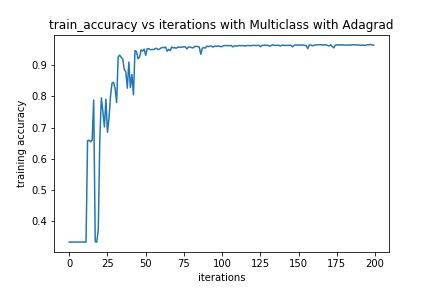
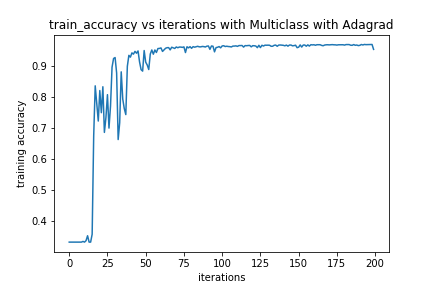
corrected

diff --git a/cleaned/helping_functions.py b/cleaned/helping_functions.py
@@ -104,6 +104,18 @@ def multiclass_result(w25,w27,w57,train_data_56):
     temp[(temp==-109)+(temp==-111)] = 7
     temp[(temp==109)+(temp==89)] = 5
     temp[(temp==-89)+(temp==111)] = 2
+    #handling other cases
+    temp2 = (temp!=2) * (temp!=5) * (temp!=7)
+    others = np.argwhere(temp2!=0)
+    if others.shape[0]!=0:
+      train_others = train_data_56[others].reshape(-1,785)
+      sum_others = np.hstack(((np.sum(w25*train_others,axis = 1)).reshape(-1,1),(np.sum(w27*train_others,axis = 1)).reshape(-1,1),(np.sum(w57*train_others,axis = 1)).reshape(-1,1)))
+      temp_others = np.zeros((train_others.shape[0]))
+      args = np.argmax(abs(sum_others),axis=1)
+      temp_others[args==0] = 2*(sum_others[:,0][args==0]>0) + 5*(sum_others[:,0][args==0]<0)
+      temp_others[args==1] = 2*(sum_others[:,1][args==1]>0) + 7*(sum_others[:,1][args==1]<0)
+      temp_others[args==2] = 5*(sum_others[:,2][args==2]>0) + 7*(sum_others[:,2][args==2]<0)
+      temp[(temp!=2) * (temp!=5) * (temp!=7)] = temp_others
     return temp
     
 
@@ -216,10 +228,39 @@ def prepare_testing_data(test_filtered_56_labels,test_filtered_56,test_labels):
     for i in range(test_filtered_56_labels.shape[0]):
       test_loader_ip.append((torch.Tensor(test_filtered_56[i].reshape(1,28,28)),int(test_labels[i])))
 
-    testloader = torch.utils.data.DataLoader(test_loader_ip,batch_size=64)
+    testloader = torch.utils.data.DataLoader(test_loader_ip,batch_size=len(test_filtered_56))
     return testloader
 
-def train_data_func(trainloader):
+
+
+def test_data_func(classes,net,testloader):  
+    
+    
+    class_correct = list(0. for i in range(len(classes)))
+    class_total = list(0. for i in range(len(classes)))
+    
+    with torch.no_grad():
+    
+        for data in testloader:
+            images, labels = data
+            outputs = net(images)
+            _, predicted = torch.max(outputs, 1)
+            c = (predicted == labels).squeeze()
+            for i in range(len(labels)):
+                label = labels[i]
+                class_correct[label] += c[i].item()
+                class_total[label] += 1
+
+
+#    for i in range(len(classes)):
+#        print('Accuracy of %5s : %2d %%' % (
+#            classes[i], 100 * class_correct[i] / class_total[i]))
+        
+        return sum(class_correct)/sum(class_total)
+
+
+
+def train_data_func(trainloader,epochs,classes,testloader,batch_size):
     
     
     net = Net()
@@ -234,8 +275,8 @@ def train_data_func(trainloader):
     total=0
     acc_values = []
     loss_values = []
-
-    for epoch in range(3):  # loop over the dataset multiple times
+    test_accuracy=[]
+    for epoch in range(epochs):  # loop over the dataset multiple times
 
         running_loss = 0.0
         running_corrects=0.0
@@ -253,44 +294,34 @@ def train_data_func(trainloader):
             running_loss += loss.item()
             running_corrects += torch.sum(preds == labels).item()
  
+           
             
             if i % 100 == 99:    # print every 100 mini-batches
                 print('Epoch: %d, Batch: %5d, loss: %.3f' %
                         (epoch + 1, i + 1, running_loss / 100))
-                running_loss = 0.0
-    
-                
-        loss_values.append(running_loss/len(trainloader))
-        acc_values.append(running_corrects / len(trainloader))      
-
+                #running_loss = 0.0
+   
+        test_accu=test_data_func(classes,net,testloader)       
+        loss_values.append((running_loss/len(trainloader)*batch_size))
+        acc_values.append(running_corrects / (len(trainloader)*batch_size)) 
+        test_accuracy.append(test_accu)
+#        print("test accuracy", test_accu)
+        
     print('Finished Training')
+    plt.clf()
     plt.plot(np.array(loss_values), 'r')
-    plt.show()
+    plt.savefig("results/Lossvalues_train_nn.png")
+    plt.clf()
     plt.plot(np.array(acc_values), 'r')
-    return net
-
-
-
-
-def test_data_func(classes,net,testloader):  
+    plt.savefig("results/Accuracyvalues_train_nn.png")
+    plt.clf()
+    plt.plot(np.array(test_accuracy), 'r')
+    plt.savefig("results/Accuracyvalues_test_nn.png")
     
-    
-    class_correct = list(0. for i in range(len(classes)))
-    class_total = list(0. for i in range(len(classes)))
-    
-    with torch.no_grad():
-    
-        for data in testloader:
-            images, labels = data
-            outputs = net(images)
-            _, predicted = torch.max(outputs, 1)
-            c = (predicted == labels).squeeze()
-            for i in range(4):
-                label = labels[i]
-                class_correct[label] += c[i].item()
-                class_total[label] += 1
+    print("final test accuracy",test_accuracy[-1])
+    print("final train accuracy",acc_values[-1])
+#    return net
 
 
-    for i in range(3):
-        print('Accuracy of %5s : %2d %%' % (
-            classes[i], 100 * class_correct[i] / class_total[i]))
+
+

diff --git a/cleaned/main.py b/cleaned/main.py
@@ -20,12 +20,12 @@ if __name__ == '__main__':
     #Uncomment the next line to see 10 random images 
     # random_image_display(10,train)
     
-    
+    #QUESTION 2
     # -----------------
     #HYPERPARAMETERS FOR PEGASUS
-    regu_para = 0.1
-    num_iter = 4000
-    batch_size = 100
+    regu_para = 0.5
+    num_iter = 1000
+    batch_size = 500
     # -----------------
     
     #Convert data to model-friendly format
@@ -56,12 +56,12 @@ if __name__ == '__main__':
     print("Train accuracy with Pegasus is", train_final_accuracy_Pega*100)
     print("Test accuracy with Pegasus is", test_final_accuracy_Pega*100)
     
-    
+    #QUESTION 3    
     # -----------------
     #HYPERPARAMETERS FOR PEGASUS WITH ADAGRAD
-    regu_para = 0.1
-    num_iter = 200
-    batch_size = 100
+    regu_para = 0.5
+    num_iter = 1000
+    batch_size = 500
     # -----------------
     w,train_accu,test_accu = \
         Pega_with_Ada(regu_para,num_iter,batch_size,train_data,train_labels_bin,test_data,test_labels_bin)
@@ -88,7 +88,7 @@ if __name__ == '__main__':
     print("Train accuracy with Pegasus and Adagrad is", train_final_accuracy_Ada*100)
     print("Test accuracy with Pegasus and Adagrad is", test_final_accuracy_Ada*100)
     
-    
+    #QUESTION 3   
     # -----------------
     #HYPERPARAMETERS FOR MULTICLASS ADA
     regu_para = 0.1
@@ -156,6 +156,6 @@ if __name__ == '__main__':
     #### Training and testing
     classes = ['two','five','seven']
 
-    net=train_data_func(trainloader)
-    test_data_func(classes,net,testloader)
-    
+    train_data_func(trainloader,epochs,classes,testloader,batch_size)
+#    test_data_func(classes,net,testloader)
+#    
